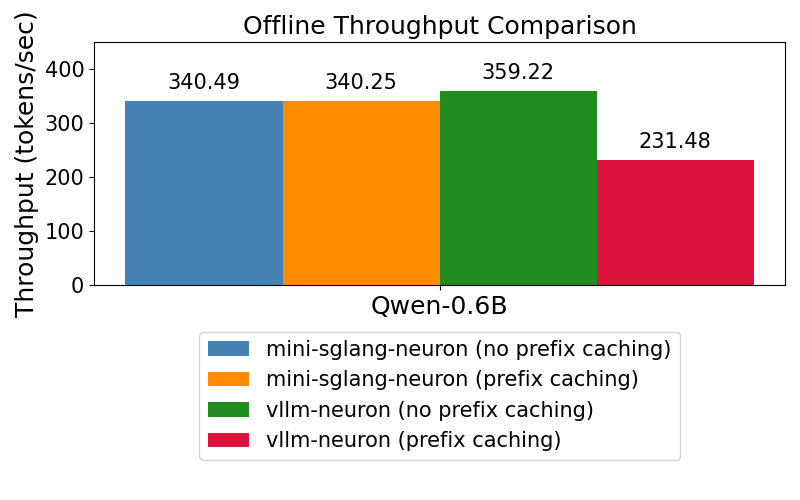
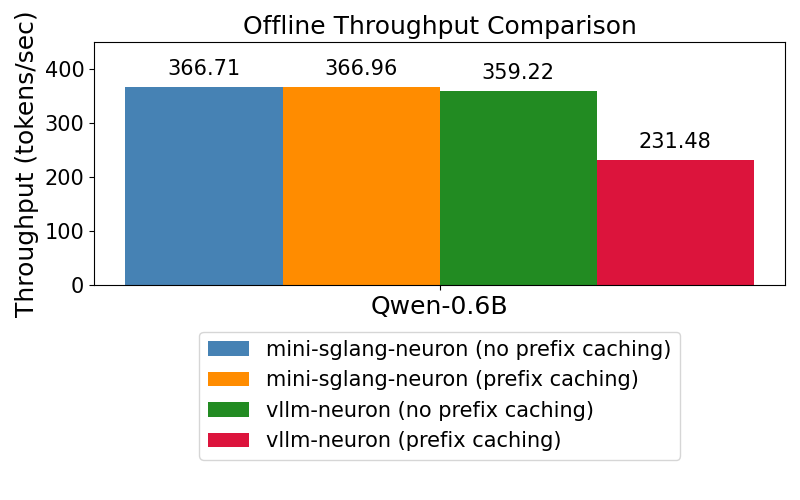
fix: remove serverl cpu memory-bound performance bottleneck.

Changed region(s): [[0.1562, 0.12, 0.5625, 0.21]]

diff --git a/python/minisgl/engine/sample.py b/python/minisgl/engine/sample.py
@@ -55,38 +55,59 @@ class Sampler:
 
     def _sample_cpu(self, logits: torch.Tensor, args: BatchSamplingArgs) -> torch.Tensor:
         assert args.temperatures is not None
-        output = torch.empty((logits.shape[0],), dtype=torch.int32)
-        temperatures = args.temperatures
-        top_k = args.top_k if args.top_k is not None else None
-        top_p = args.top_p if args.top_p is not None else None
+        logits = logits.float()
+        cpu_device = logits.device
+        temperatures = args.temperatures.to(device=cpu_device)
+        scaled_logits = logits / temperatures.unsqueeze(1)
 
-        for i in range(logits.shape[0]):
-            row = logits[i].float()
-            temperature = float(temperatures[i].item())
-            if temperature > 0:
-                row = row / temperature
+        batch_size, vocab_size = scaled_logits.shape
+        output = torch.empty((batch_size,), dtype=torch.int32, device=cpu_device)
 
-            k = int(top_k[i].item()) if top_k is not None else self.vocab_size
-            p = float(top_p[i].item()) if top_p is not None else 1.0
+        top_k = (
+            args.top_k.to(device=cpu_device, dtype=torch.int64)
+            if args.top_k is not None
+            else torch.full((batch_size,), vocab_size, dtype=torch.int64, device=cpu_device)
+        )
+        top_p = (
+            args.top_p.to(device=cpu_device)
+            if args.top_p is not None
+            else torch.ones((batch_size,), dtype=torch.float32, device=cpu_device)
+        )
 
-            if k > 0 and k < row.numel():
-                topk = torch.topk(row, k=k)
-                probs = torch.softmax(topk.values, dim=-1)
-                idx = torch.multinomial(probs, 1)
-                token = topk.indices[idx]
-            elif p < 1.0:
-                probs = torch.softmax(row, dim=-1)
-                sorted_probs, sorted_idx = torch.sort(probs, descending=True)
-                cumulative = torch.cumsum(sorted_probs, dim=-1)
-                mask = cumulative <= p
-                mask[0] = True
-                filtered_probs = sorted_probs[mask]
-                filtered_idx = sorted_idx[mask]
-                filtered_probs = filtered_probs / filtered_probs.sum()
-                idx = torch.multinomial(filtered_probs, 1)
-                token = filtered_idx[idx]
-            else:
-                token = torch.argmax(row, dim=-1)
+        topk_rows = (top_k > 0) & (top_k < vocab_size)
+        if topk_rows.any():
+            topk_indices = torch.nonzero(topk_rows, as_tuple=False).squeeze(1)
+            row_logits = scaled_logits[topk_indices]
+            row_top_k = top_k[topk_indices]
+            max_k = int(row_top_k.max().item())
 
-            output[i] = token.item()
+            topk_values, topk_tokens = torch.topk(row_logits, k=max_k, dim=-1)
+            valid = torch.arange(max_k, device=cpu_device).unsqueeze(0) < row_top_k.unsqueeze(1)
+            masked_values = topk_values.masked_fill(~valid, float("-inf"))
+            probs = torch.softmax(masked_values, dim=-1)
+            sampled = torch.multinomial(probs, 1)
+            output[topk_indices] = torch.gather(topk_tokens, 1, sampled).squeeze(1).to(torch.int32)
+
+        topp_rows = (~topk_rows) & (top_p < 1.0)
+        if topp_rows.any():
+            topp_indices = torch.nonzero(topp_rows, as_tuple=False).squeeze(1)
+            row_logits = scaled_logits[topp_indices]
+            row_top_p = top_p[topp_indices]
+
+            probs = torch.softmax(row_logits, dim=-1)
+            sorted_probs, sorted_tokens = torch.sort(probs, dim=-1, descending=True)
+            cumulative = torch.cumsum(sorted_probs, dim=-1)
+            valid = cumulative <= row_top_p.unsqueeze(1)
+            valid[:, 0] = True
+
+            filtered_probs = sorted_probs.masked_fill(~valid, 0.0)
+            filtered_probs = filtered_probs / filtered_probs.sum(dim=-1, keepdim=True)
+            sampled = torch.multinomial(filtered_probs, 1)
+            output[topp_indices] = torch.gather(sorted_tokens, 1, sampled).squeeze(1).to(torch.int32)
+
+        greedy_rows = ~(topk_rows | topp_rows)
+        if greedy_rows.any():
+            greedy_indices = torch.nonzero(greedy_rows, as_tuple=False).squeeze(1)
+            output[greedy_indices] = torch.argmax(scaled_logits[greedy_indices], dim=-1).to(torch.int32)
+
         return output

diff --git a/python/minisgl/scheduler/cache.py b/python/minisgl/scheduler/cache.py
@@ -14,13 +14,26 @@ class CacheManager:
         # TODO: support page_size > 1
         # Page ID 0 is reserved for dummy padding, so real cache pages are 1..num_pages.
         self._free_slots = torch.arange(1, num_pages + 1, dtype=torch.int32, device=device)
+        self._free_len = num_pages
         self.device = device
         self.manager = create_cache_manager(device=device, type=type)
         self.num_pages = num_pages
 
     def _free(self, indices: torch.Tensor) -> None:
-        if len(indices) > 0:
-            self._free_slots = torch.cat([self._free_slots, indices])
+        free_len = len(indices)
+        if free_len == 0:
+            return
+        next_free_len = self._free_len + free_len
+        assert next_free_len <= self.num_pages, "Free slot pool overflow."
+        self._free_slots[self._free_len : next_free_len].copy_(indices)
+        self._free_len = next_free_len
+
+    def _allocate_from_free(self, needed_len: int) -> torch.Tensor:
+        assert needed_len <= self._free_len
+        start = self._free_len - needed_len
+        allocated = self._free_slots[start : self._free_len].clone()
+        self._free_len = start
+        return allocated
 
     def match_req(self, req: PendingReq):
         input_len = req.input_len
@@ -29,7 +42,7 @@ class CacheManager:
 
     @property
     def available_size(self) -> int:
-        return self.manager.size_info.evictable_size + len(self._free_slots)
+        return self.manager.size_info.evictable_size + self._free_len
 
     def lock(self, handle: BaseCacheHandle) -> None:
         self.manager.lock_handle(handle, unlock=False)
@@ -38,19 +51,14 @@ class CacheManager:
         self.manager.lock_handle(handle, unlock=True)
 
     def allocate(self, needed_len: int) -> torch.Tensor:
-        if needed_len <= (free_len := len(self._free_slots)):
-            allocated = self._free_slots[:needed_len]
-            self._free_slots = self._free_slots[needed_len:]
-            return allocated
+        if needed_len <= self._free_len:
+            return self._allocate_from_free(needed_len)
 
         # NOTE: len(evicted) + free_len >= needed_len
-        evicted = self.manager.evict(needed_len - free_len)
-        merged = torch.cat([self._free_slots, evicted])
-        assert len(merged) >= needed_len, "Eviction did not free enough space."
-
-        allocated = merged[:needed_len]
-        self._free_slots = merged[needed_len:]
-        return allocated
+        evicted = self.manager.evict(needed_len - self._free_len) 
+        self._free(evicted)
+        assert self._free_len >= needed_len, "Eviction did not free enough space."
+        return self._allocate_from_free(needed_len)
 
     def free_and_cache_finished_req(
         self,
@@ -64,9 +72,9 @@ class CacheManager:
 
     def check_integrity(self) -> None:
         self.manager.check_integrity()
-        if len(self._free_slots) + self.manager.size_info.total_size != self.num_pages:
+        if self._free_len + self.manager.size_info.total_size != self.num_pages:
             raise RuntimeError(
                 "CacheManager integrity check failed:"
-                f" free_slots({len(self._free_slots)}) +"
+                f" free_slots({self._free_len}) +"
                 f" total_size({self.manager.size_info.total_size}) != num_pages({self.num_pages})"
             )

diff --git a/python/minisgl/core.py b/python/minisgl/core.py
@@ -34,9 +34,14 @@ class Req:
 
     def __post_init__(self) -> None:
         assert self.input_ids.is_cpu
-        self.device_len = len(self.input_ids)
-        self.max_device_len = len(self.input_ids) + self.output_len
+        init_len = len(self.input_ids)
+        self.device_len = init_len
+        self.max_device_len = init_len + self.output_len
         assert 0 <= self.cached_len < self.device_len <= self.max_device_len
+        if self.max_device_len > init_len:
+            input_ids = torch.empty(self.max_device_len, dtype=self.input_ids.dtype)
+            input_ids[:init_len].copy_(self.input_ids)
+            self.input_ids = input_ids
 
     @property
     def remain_len(self) -> int:
@@ -51,7 +56,7 @@ class Req:
         self.device_len += 1
 
     def append_host(self, next_token: torch.Tensor) -> None:
-        self.input_ids = torch.cat([self.input_ids, next_token])
+        self.input_ids[self.cached_len : self.cached_len + 1].copy_(next_token)
 
     def can_decode(self) -> bool:
         return self.remain_len > 0

diff --git a/python/minisgl/neuron/inputs.py b/python/minisgl/neuron/inputs.py
@@ -1,6 +1,5 @@
 from __future__ import annotations
 
-import copy
 from dataclasses import dataclass
 import torch
 
@@ -151,4 +150,4 @@ class NeuronInputBuilder:
         )
 
     def _build_block_tables(self, req) -> torch.Tensor:
-        return copy.deepcopy(self.page_table[req.table_idx, : req.device_len])
+        return self.page_table[req.table_idx, : req.device_len].clone()
